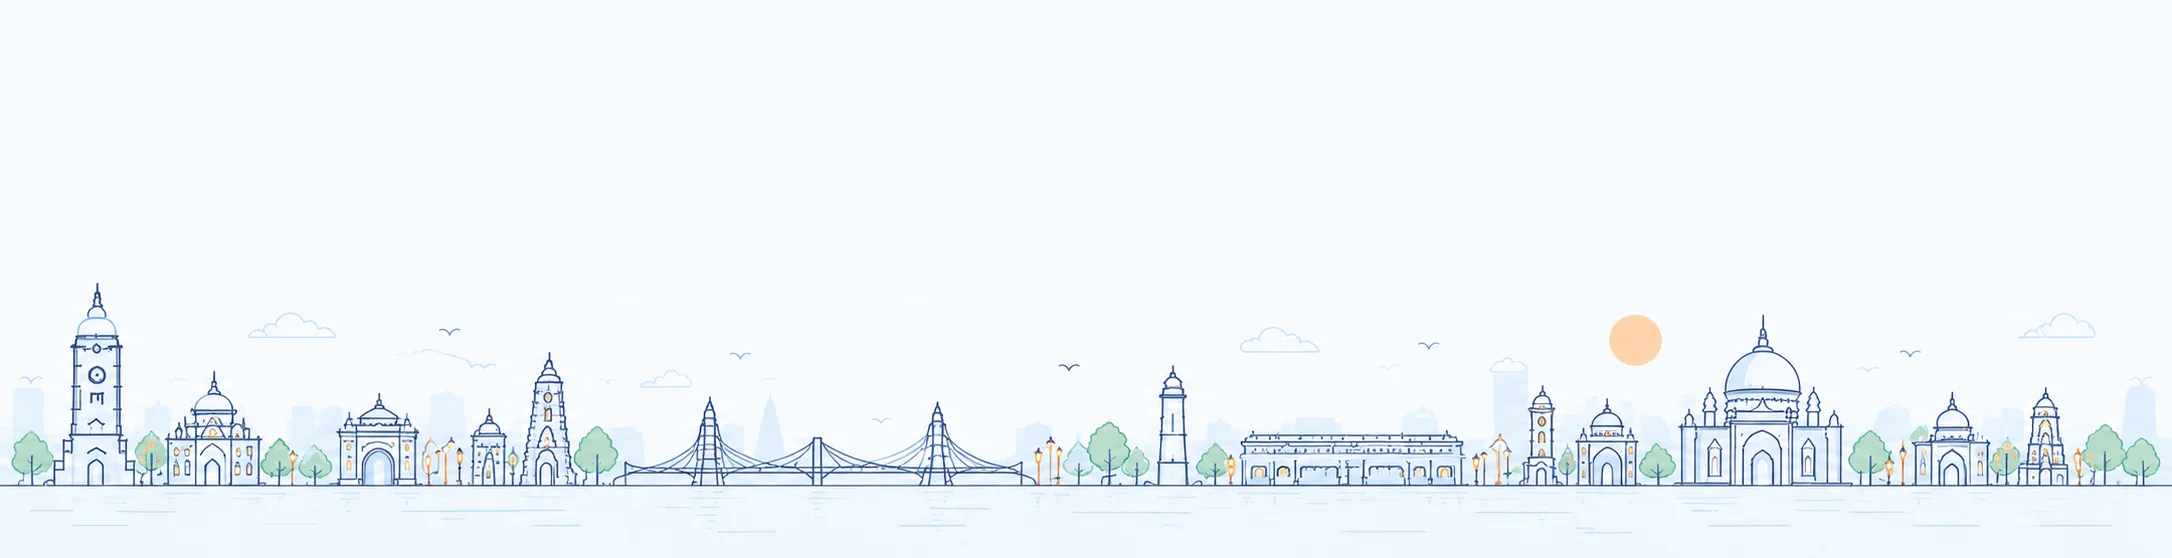
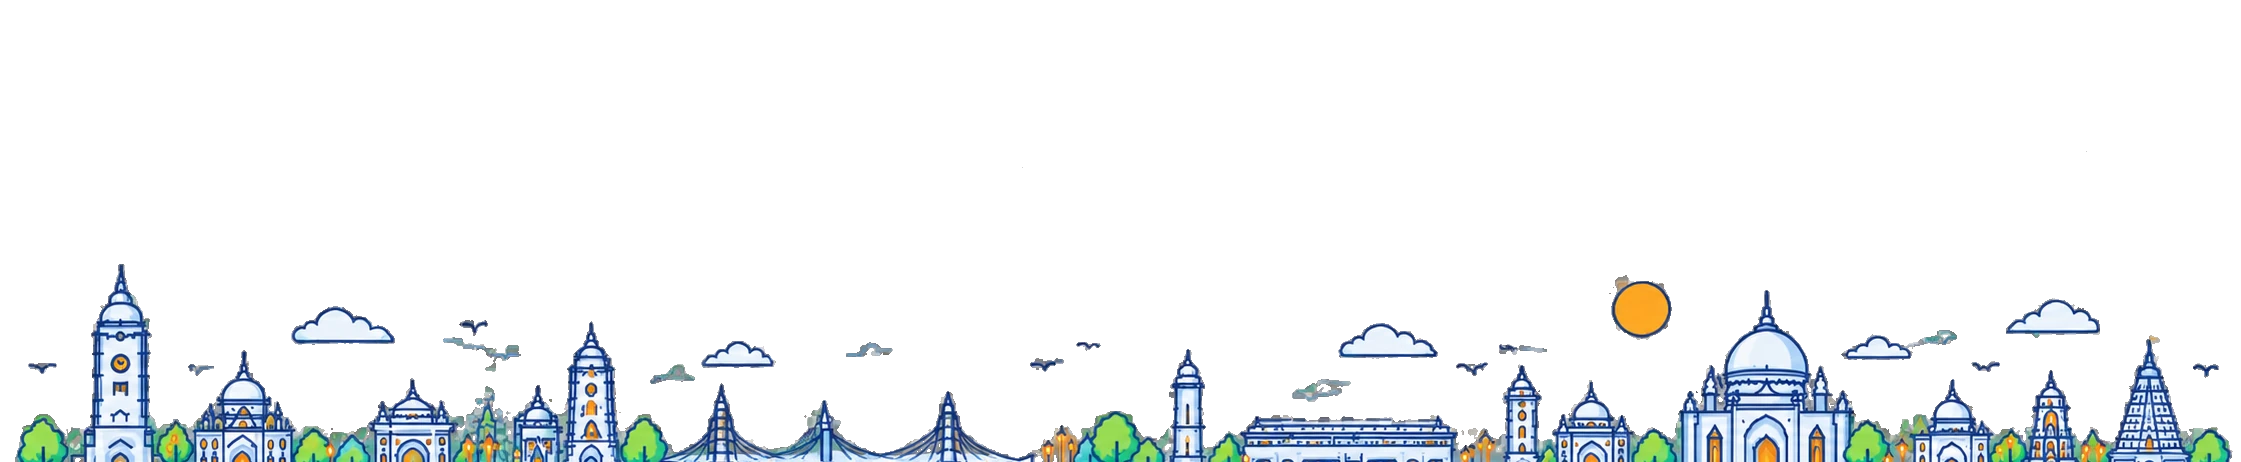
Swap in the new skyline artwork and move the footer bar above it
The two new skyline images you sent replace the old cropped pair:
- The dark one already had real alpha and just needed its empty
  bottom padding trimmed.
- The light one only had a *baked-in* checkerboard (flat RGB, no
  alpha channel), so it would have shown a literal gray checker
  pattern in the browser. Recovered real transparency from it by
  chroma-keying the two checker grays back out (sampled the exact
  shades and the 12px cell period) and denoising the result, then
  cropped both to the skyline itself — the light source image's
  reflection band didn't survive the recovery cleanly, so it's
  cropped out there; the dark image's reflection was clean and kept.

Layout: the Government/Citizens/Smarter Cities · v3.0 · Privacy/Terms
line now sits in its own bar above the artwork on a solid background,
instead of overlaid on the image — the new source images don't have
the flat color band the old ones did, so there was nowhere on the
image itself to lay text over.

diff --git a/frontend/index.html b/frontend/index.html
@@ -1036,21 +1036,21 @@ function Header({activeTab,setActiveTab,user,authChecked,onLogout,dark,onToggleD
 
 /* ===== FOOTER ===== */
 function SiteFooter(){
-  return<footer className="relative mt-auto overflow-hidden">
-    <div className="relative w-full h-44 sm:h-60 lg:h-72">
-      <img src="assets/footer-skyline-light.webp" alt="" aria-hidden="true" className="absolute inset-0 w-full h-full object-cover object-bottom block dark:hidden"/>
-      <img src="assets/footer-skyline-dark.webp" alt="" aria-hidden="true" className="absolute inset-0 w-full h-full object-cover object-bottom hidden dark:block"/>
-      <div className="absolute inset-x-0 bottom-0 pb-3 sm:pb-5">
-        <div className="max-w-7xl mx-auto px-4 sm:px-8 flex flex-col sm:flex-row items-center justify-between gap-2 text-center">
-          <div className="flex items-center gap-2 text-[11px] sm:text-xs font-medium text-navy-600 dark:text-navy-200">
-            <span>Government</span><span className="text-saffron-400">|</span><span>Citizens</span><span className="text-saffron-400">|</span><span>Smarter Cities</span>
-          </div>
-          <span className="font-display font-semibold text-[11px] sm:text-xs text-navy-800 dark:text-white">Nagarik Mitra v3.0<span className="mx-1.5 text-saffron-400">|</span>Making Cities More Livable, Together</span>
-          <div className="flex items-center gap-2 text-[11px] sm:text-xs font-medium text-navy-600 dark:text-navy-200">
-            <span>Privacy</span><span className="text-saffron-400">|</span><span>Terms</span><span className="text-saffron-400">|</span><span>Help</span>
-          </div>
+  return<footer className="relative mt-auto">
+    <div className="border-t border-gray-200 dark:border-white/10 bg-[#F0F3F8] dark:bg-navy-950 transition-colors">
+      <div className="max-w-7xl mx-auto px-4 sm:px-8 py-4 flex flex-col sm:flex-row items-center justify-between gap-2 text-center">
+        <div className="flex items-center gap-2 text-[11px] sm:text-xs font-medium text-navy-600 dark:text-navy-200">
+          <span>Government</span><span className="text-saffron-400">|</span><span>Citizens</span><span className="text-saffron-400">|</span><span>Smarter Cities</span>
+        </div>
+        <span className="font-display font-semibold text-[11px] sm:text-xs text-navy-800 dark:text-white">Nagarik Mitra v3.0<span className="mx-1.5 text-saffron-400">|</span>Making Cities More Livable, Together</span>
+        <div className="flex items-center gap-2 text-[11px] sm:text-xs font-medium text-navy-600 dark:text-navy-200">
+          <span>Privacy</span><span className="text-saffron-400">|</span><span>Terms</span><span className="text-saffron-400">|</span><span>Help</span>
         </div>
       </div>
+    </div>
+    <div className="w-full h-32 sm:h-44 lg:h-56 bg-[#F0F3F8] dark:bg-navy-950 transition-colors overflow-hidden">
+      <img src="assets/footer-skyline-light.webp" alt="Illustration of a city skyline" className="w-full h-full object-cover object-bottom block dark:hidden"/>
+      <img src="assets/footer-skyline-dark.webp" alt="Illustration of a city skyline" className="w-full h-full object-cover object-bottom hidden dark:block"/>
     </div>
   </footer>;
 }
